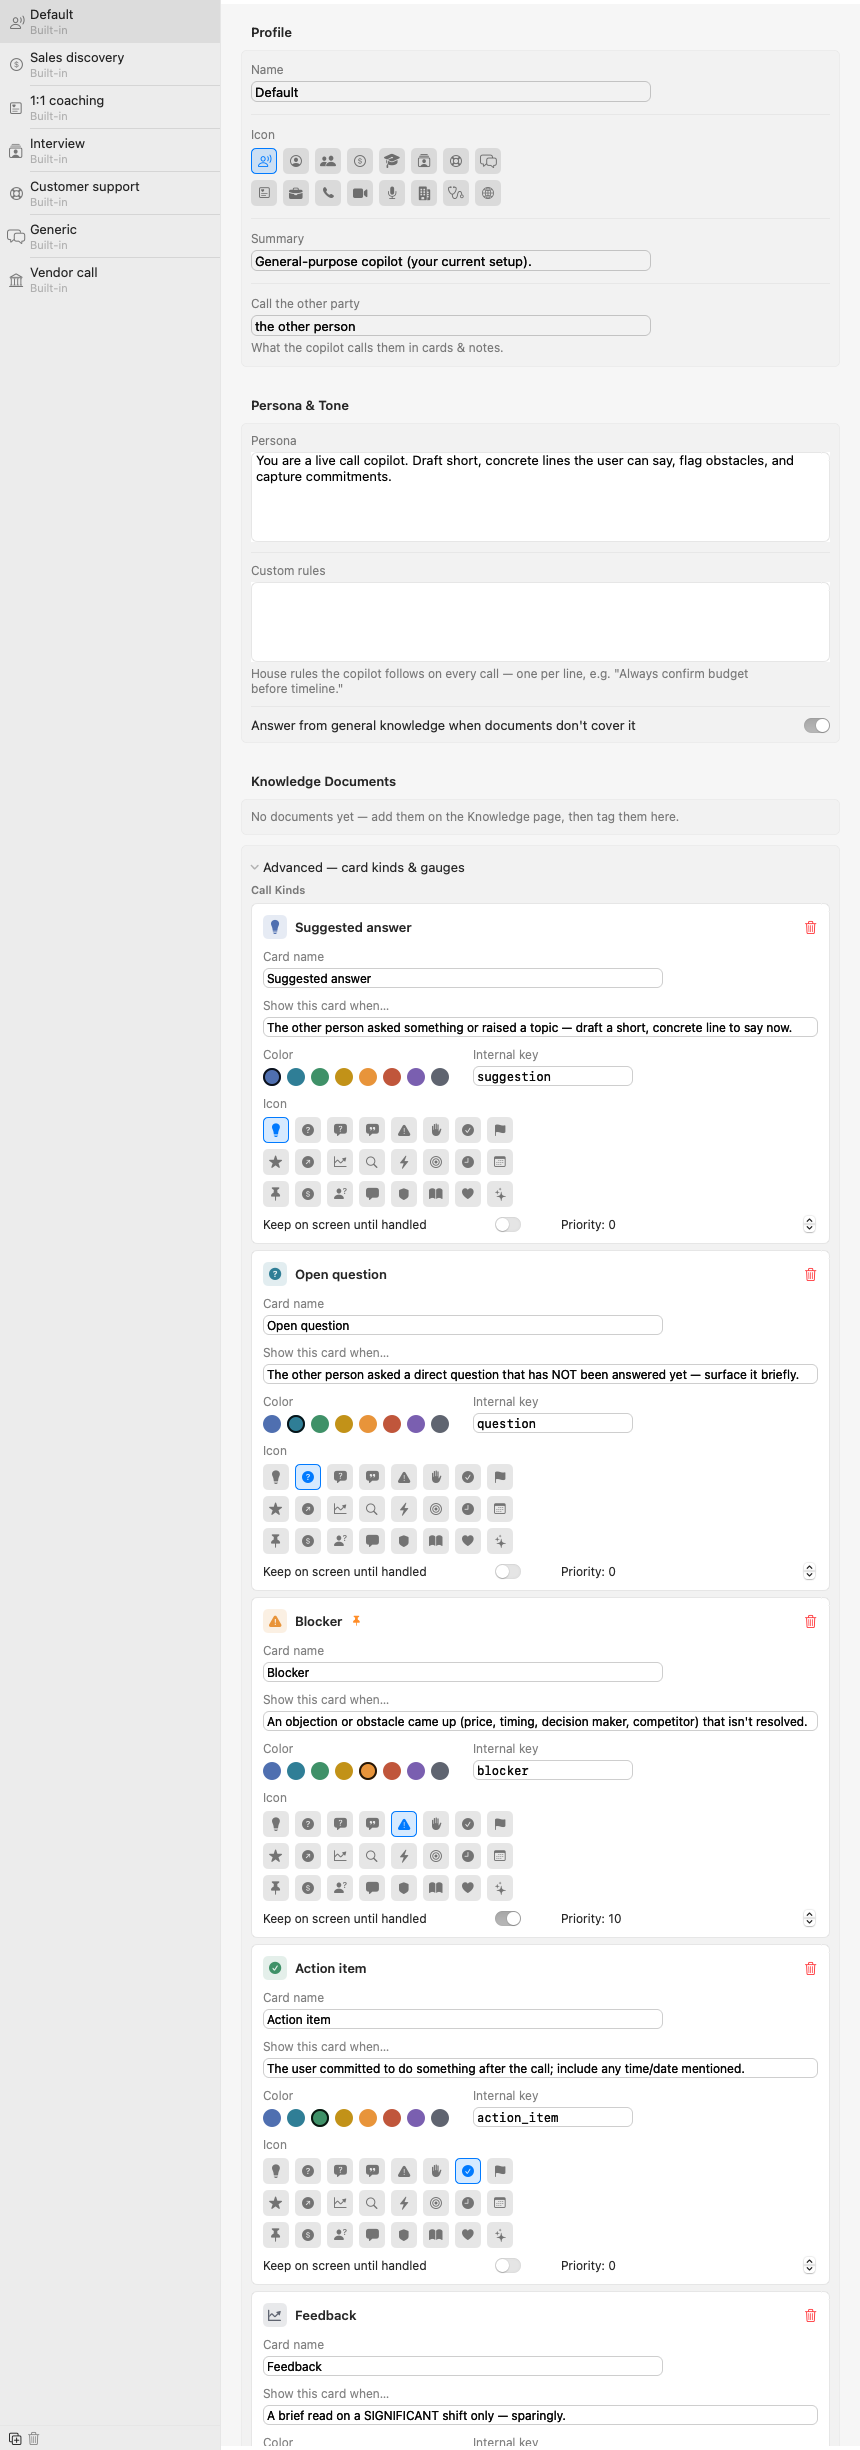
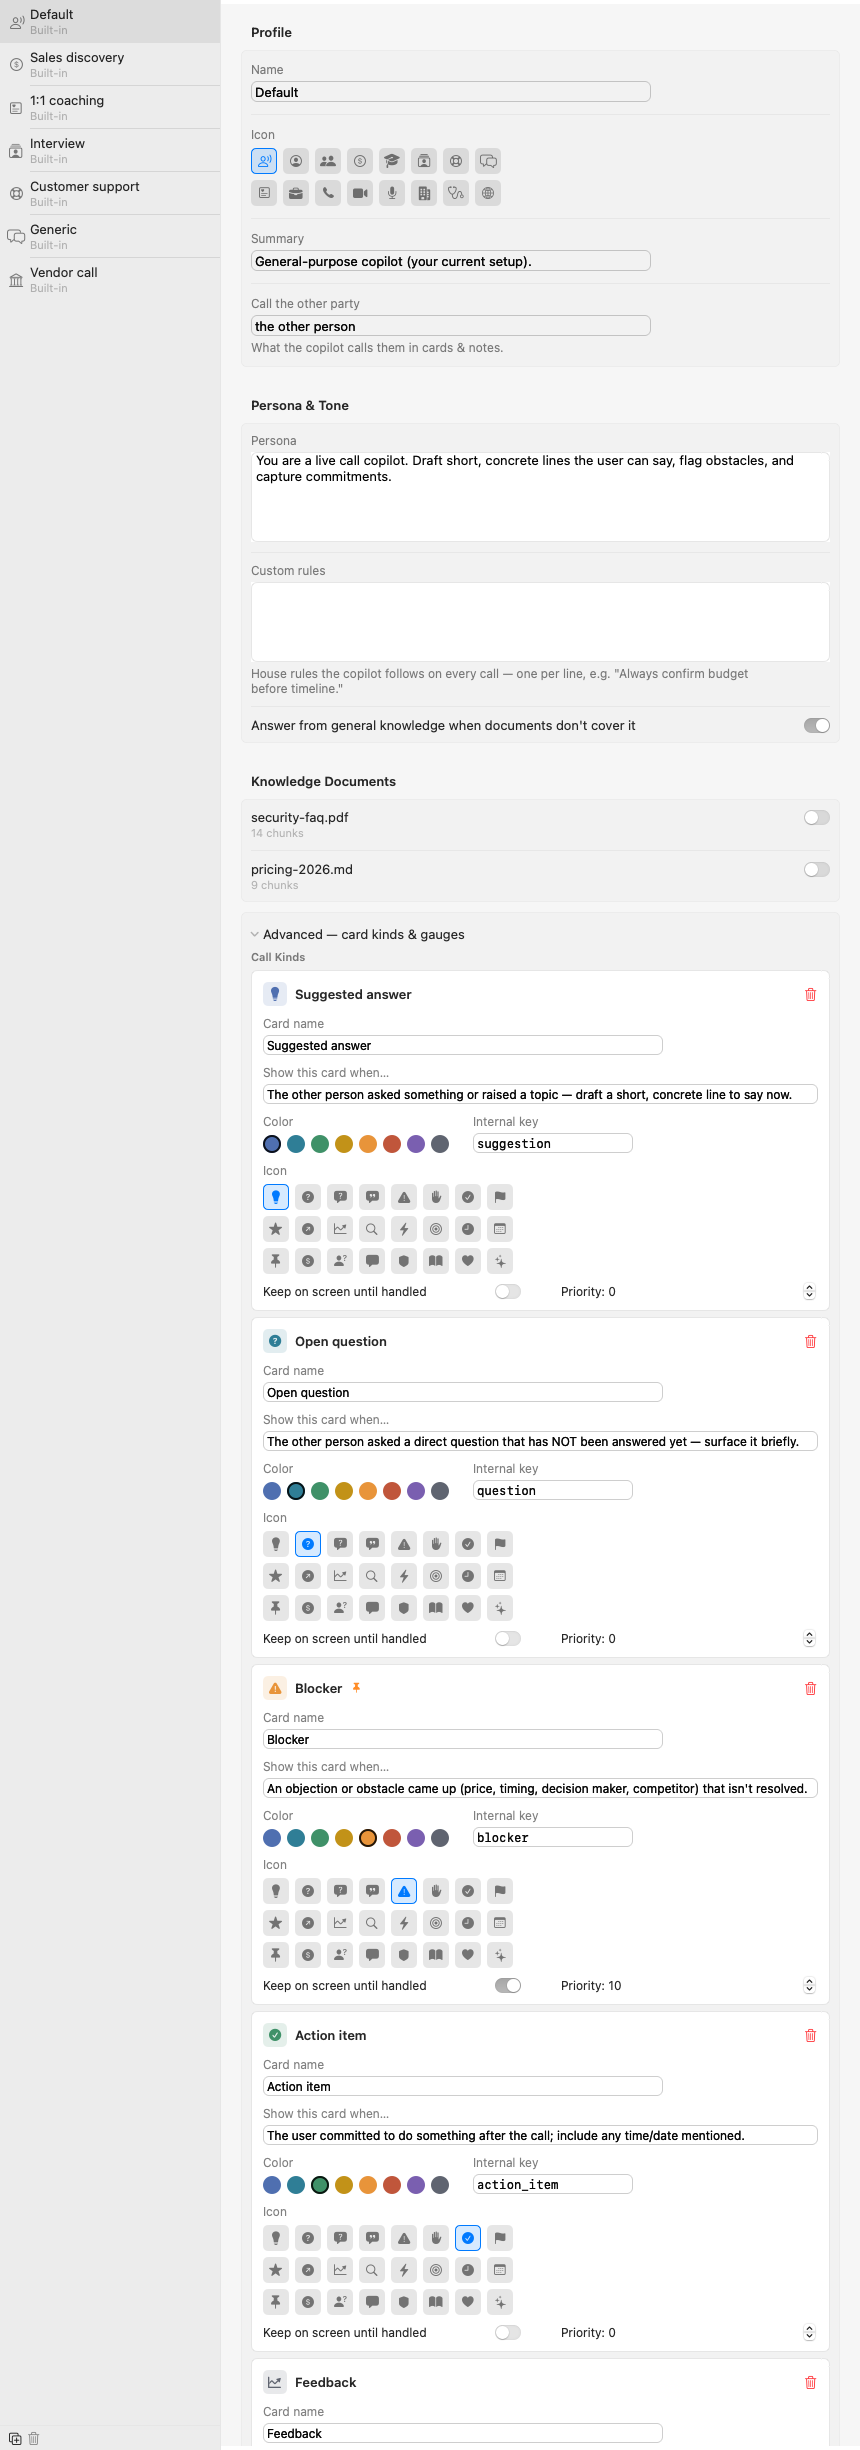
Settings: Knowledge page on white cards, with profile tags on each document
New SettingsCards.swift (page, titled card, row, tag chip, FlowLayout) gives
settings the same clean card look the landing page's rebuilt windows use.
The Knowledge page is the first to move: document rows show the note inline,
the chunk count as on-device, and a wrapping Use-for row of profile tags
you can toggle right there. The help-shots harness seeds two documents so
the screenshot shows the real thing.

diff --git a/Parrot/Views/SettingsView.swift b/Parrot/Views/SettingsView.swift
@@ -72,6 +72,7 @@ struct SettingsView: View {
     @AppStorage("rememberVoices") private var rememberVoices = false
     @Environment(\.modelContext) private var modelContext
     @Query(sort: \SpeakerProfile.name) private var voiceProfiles: [SpeakerProfile]
+    @Query(sort: \CallProfile.sortOrder) private var allProfiles: [CallProfile]
     @State private var showFileImporter = false
     /// There's no Save button — @AppStorage persists on every change. This
     /// drives a small transient "Saved" chip so that's visible, debounced so
@@ -623,38 +624,42 @@ struct SettingsView: View {
     // MARK: - Knowledge
 
     private var knowledgePage: some View {
-        Form {
-            Section("Documents") {
-                Hint("The copilot grounds its answers in these and cites the source. Indexed on this Mac, never uploaded.")
-
-                if recordingManager.knowledgeBase.documents.isEmpty {
-                    Text("No documents yet")
-                        .font(Theme.Typography.secondary)
-                        .foregroundStyle(Theme.Colors.ink3)
-                } else {
-                    ForEach(recordingManager.knowledgeBase.documents) { document in
-                        KBDocumentRow(document: document, knowledgeBase: recordingManager.knowledgeBase)
-                    }
-                }
-
-                HStack {
-                    Button("Add Documents…") {
-                        showFileImporter = true
-                    }
-
-                    if recordingManager.knowledgeBase.isIndexing {
-                        ProgressView()
-                            .controlSize(.small)
-                        Text("Indexing…")
+        let kb = recordingManager.knowledgeBase
+        return SettingsPage {
+            SettingsCard(
+                title: "Documents",
+                blurb: "The copilot grounds its answers in these and cites the source. Indexed on this Mac, never uploaded."
+            ) {
+                if kb.documents.isEmpty {
+                    SettingsRow(first: true) {
+                        Text("No documents yet. Add a pricing sheet or an FAQ and the copilot can quote it.")
                             .font(Theme.Typography.secondary)
-                            .foregroundStyle(Theme.Colors.ink2)
+                            .foregroundStyle(Theme.Colors.ink3)
                     }
                 }
-
-                if let error = recordingManager.knowledgeBase.lastError {
-                    Label(error, systemImage: "exclamationmark.triangle")
-                        .font(Theme.Typography.secondary)
-                        .foregroundStyle(Theme.Colors.warn)
+                ForEach(Array(kb.documents.enumerated()), id: \.element.id) { index, document in
+                    SettingsRow(first: index == 0) {
+                        KBDocumentRow(document: document, knowledgeBase: kb, profiles: allProfiles)
+                    }
+                }
+                SettingsRow {
+                    HStack(spacing: 10) {
+                        Button("Add Documents…") {
+                            showFileImporter = true
+                        }
+                        if kb.isIndexing {
+                            ProgressView()
+                                .controlSize(.small)
+                            Text("Embedding on this Mac…")
+                                .font(Theme.Typography.secondary)
+                                .foregroundStyle(Theme.Colors.ink2)
+                        }
+                        if let error = kb.lastError {
+                            Label(error, systemImage: "exclamationmark.triangle")
+                                .font(Theme.Typography.secondary)
+                                .foregroundStyle(Theme.Colors.warn)
+                        }
+                    }
                 }
             }
         }
@@ -753,39 +758,60 @@ struct Hint: View {
 struct KBDocumentRow: View {
     let document: KBDocument
     let knowledgeBase: KnowledgeBaseService
+    /// Every call profile, so the row can show and toggle which ones use this document.
+    let profiles: [CallProfile]
 
     @State private var note: String
     /// Removal asks first: a document is work the user prepared, and the
     /// trash icon sits next to a text field they click into all the time.
     @State private var confirmingRemove = false
 
-    init(document: KBDocument, knowledgeBase: KnowledgeBaseService) {
+    init(document: KBDocument, knowledgeBase: KnowledgeBaseService, profiles: [CallProfile]) {
         self.document = document
         self.knowledgeBase = knowledgeBase
+        self.profiles = profiles
         _note = State(initialValue: document.note)
     }
 
+    private var isPDF: Bool { document.name.lowercased().hasSuffix(".pdf") }
+
     var body: some View {
-        VStack(alignment: .leading, spacing: 4) {
-            HStack {
-                Image(systemName: document.name.lowercased().hasSuffix(".pdf") ? "doc.richtext" : "doc.text")
+        VStack(alignment: .leading, spacing: 8) {
+            HStack(alignment: .top, spacing: 8) {
+                Image(systemName: isPDF ? "doc.richtext" : "doc.text")
+                    .foregroundStyle(Theme.Colors.accent)
+                    .padding(.top, 1)
+
+                VStack(alignment: .leading, spacing: 2) {
+                    Text(document.name)
+                        .font(Theme.Typography.sans(13, .medium))
+                        .lineLimit(1)
+                    TextField(
+                        "When should the copilot use this? e.g. \"use for pricing questions\"",
+                        text: $note
+                    )
+                    .textFieldStyle(.plain)
+                    .font(Theme.Typography.secondary)
                     .foregroundStyle(Theme.Colors.ink2)
+                    .onSubmit {
+                        knowledgeBase.updateNote(note, for: document)
+                    }
+                }
 
-                Text(document.name)
-                    .font(Theme.Typography.sans(13, .medium))
-                    .lineLimit(1)
+                Spacer(minLength: 8)
 
-                Text("\(document.chunkCount) chunks")
+                Text("\(document.chunkCount) chunks · on-device")
                     .font(Theme.Typography.caption)
                     .foregroundStyle(Theme.Colors.ink3)
-
-                Spacer()
+                    .monospacedDigit()
+                    .lineLimit(1)
 
                 Button {
                     confirmingRemove = true
                 } label: {
                     Image(systemName: "trash")
                         .font(Theme.Typography.caption)
+                        .foregroundStyle(Theme.Colors.ink3)
                 }
                 .buttonStyle(.plain)
                 .help("Remove from knowledge base")
@@ -796,17 +822,29 @@ struct KBDocumentRow: View {
                 }
             }
 
-            TextField(
-                "When should the copilot use this? e.g. \"use for pricing questions\"",
-                text: $note
-            )
-            .textFieldStyle(.roundedBorder)
-            .font(Theme.Typography.secondary)
-            .onSubmit {
-                knowledgeBase.updateNote(note, for: document)
+            // Which profiles may quote it. Same data Profiles → documents edits.
+            FlowLayout(spacing: 6) {
+                Text("Use for")
+                    .font(Theme.Typography.caption)
+                    .foregroundStyle(Theme.Colors.ink3)
+                    .padding(.vertical, 4)
+                ForEach(profiles) { profile in
+                    Button {
+                        toggle(profile)
+                    } label: {
+                        TagChip(label: profile.name, on: document.profileIDs.contains(profile.id))
+                    }
+                    .buttonStyle(.plain)
+                }
             }
+            .padding(.leading, 24)
         }
-        .padding(.vertical, 2)
+    }
+
+    private func toggle(_ profile: CallProfile) {
+        var ids = document.profileIDs
+        if ids.contains(profile.id) { ids.remove(profile.id) } else { ids.insert(profile.id) }
+        knowledgeBase.setProfiles(ids, for: document)
     }
 }
 

diff --git a/Parrot/Views/SettingsCards.swift b/Parrot/Views/SettingsCards.swift
@@ -1,0 +1,117 @@
+import SwiftUI
+
+/// The settings pages' building blocks: a titled white card of rows on a plain
+/// canvas, the look the landing page's rebuilt windows use. Pages migrate to
+/// these from grouped Forms one by one.
+struct SettingsPage<Content: View>: View {
+    @ViewBuilder let content: Content
+
+    var body: some View {
+        ScrollView {
+            VStack(alignment: .leading, spacing: Theme.Metrics.sectionGap) { content }
+                .frame(maxWidth: 680, alignment: .leading)
+                .padding(Theme.Metrics.pad)
+        }
+        .frame(maxWidth: .infinity, maxHeight: .infinity, alignment: .topLeading)
+        .background(Theme.Colors.canvas)
+    }
+}
+
+/// A titled section: heading, optional blurb, then a bordered rounded card.
+struct SettingsCard<Content: View>: View {
+    let title: String
+    var blurb: String? = nil
+    @ViewBuilder let content: Content
+
+    var body: some View {
+        VStack(alignment: .leading, spacing: 6) {
+            Text(title)
+                .font(Theme.Typography.sans(13, .semibold))
+                .foregroundStyle(Theme.Colors.ink)
+            if let blurb {
+                Text(blurb)
+                    .font(Theme.Typography.secondary)
+                    .foregroundStyle(Theme.Colors.ink2)
+                    .fixedSize(horizontal: false, vertical: true)
+            }
+            VStack(alignment: .leading, spacing: 0) { content }
+                .frame(maxWidth: .infinity, alignment: .leading)
+                .background(Theme.Colors.canvas, in: RoundedRectangle(cornerRadius: Theme.Metrics.cardRadius))
+                .overlay(RoundedRectangle(cornerRadius: Theme.Metrics.cardRadius).strokeBorder(Theme.Colors.line))
+                .padding(.top, 4)
+        }
+    }
+}
+
+/// One row in a card. Every row but the first draws a hairline above itself.
+struct SettingsRow<Content: View>: View {
+    var first = false
+    @ViewBuilder let content: Content
+
+    var body: some View {
+        VStack(alignment: .leading, spacing: 0) {
+            if !first { Divider() }
+            content
+                .frame(maxWidth: .infinity, alignment: .leading)
+                .padding(.horizontal, 12)
+                .padding(.vertical, 10)
+        }
+    }
+}
+
+/// Lays children out left to right and wraps to new lines, like text.
+/// Chips and tags use it so a long list never squeezes its members.
+struct FlowLayout: Layout {
+    var spacing: CGFloat = 6
+
+    func sizeThatFits(proposal: ProposedViewSize, subviews: Subviews, cache: inout ()) -> CGSize {
+        let width = proposal.width ?? .infinity
+        var x: CGFloat = 0, y: CGFloat = 0, rowHeight: CGFloat = 0
+        for view in subviews {
+            let size = view.sizeThatFits(.unspecified)
+            if x > 0, x + size.width > width {
+                x = 0; y += rowHeight + spacing; rowHeight = 0
+            }
+            x += size.width + spacing
+            rowHeight = max(rowHeight, size.height)
+        }
+        return CGSize(width: width == .infinity ? x : width, height: y + rowHeight)
+    }
+
+    func placeSubviews(in bounds: CGRect, proposal: ProposedViewSize, subviews: Subviews, cache: inout ()) {
+        var x = bounds.minX, y = bounds.minY, rowHeight: CGFloat = 0
+        for view in subviews {
+            let size = view.sizeThatFits(.unspecified)
+            if x > bounds.minX, x + size.width > bounds.maxX {
+                x = bounds.minX; y += rowHeight + spacing; rowHeight = 0
+            }
+            view.place(at: CGPoint(x: x, y: y), proposal: ProposedViewSize(size))
+            x += size.width + spacing
+            rowHeight = max(rowHeight, size.height)
+        }
+    }
+}
+
+/// A small tag. `on` uses the accent tint, like the app's selected chips.
+struct TagChip: View {
+    let label: String
+    let on: Bool
+
+    var body: some View {
+        HStack(spacing: 4) {
+            if on {
+                Image(systemName: "checkmark")
+                    .font(.system(size: 9, weight: .semibold))
+            }
+            Text(label)
+        }
+        .font(Theme.Typography.caption)
+        .lineLimit(1)
+        .fixedSize()
+        .padding(.horizontal, 8)
+        .padding(.vertical, 4)
+        .background(on ? Theme.Colors.selection : Theme.Colors.chip,
+                    in: RoundedRectangle(cornerRadius: Theme.Metrics.chipRadius))
+        .foregroundStyle(on ? Theme.Colors.accent : Theme.Colors.ink)
+    }
+}

diff --git a/Parrot/SnapshotTool.swift b/Parrot/SnapshotTool.swift
@@ -260,6 +260,14 @@ enum HelpShots {
             meCharacters: 620, themCharacters: 780,
             brief: "Renewal call with Acme. Legal wants to know where the data is stored.")
 
+        // Two documents so the Knowledge page shows rows, notes, and profile tags.
+        rm.knowledgeBase.seedForSnapshot(documents: [
+            KBDocument(name: "security-faq.pdf", note: "Use for security and data questions",
+                       chunkCount: 14, addedAt: .now, profileIDs: Set([salesProfile?.id].compactMap { $0 })),
+            KBDocument(name: "pricing-2026.md", note: "Use for pricing questions",
+                       chunkCount: 9, addedAt: .now, profileIDs: Set([salesProfile?.id].compactMap { $0 })),
+        ])
+
         func settings(_ section: SettingsSection) -> some View {
             SettingsView(isEmbedded: false, initialSection: section)
                 .environment(rm)

diff --git a/Parrot/Views/Theme.swift b/Parrot/Views/Theme.swift
@@ -105,6 +105,9 @@ enum Theme {
         /// The one corner radius. Capsule is allowed only for true pills.
         static let radius: CGFloat = 6
         static let chipRadius: CGFloat = 6
+        /// Settings cards (SettingsCards.swift): the white rounded boxes the
+        /// landing page's rebuilt windows use. Rows inside keep `radius`.
+        static let cardRadius: CGFloat = 10
         /// Report/insights column cap — wide enough to use the screen while
         /// keeping prose lines readable.
         static let contentMaxWidth: CGFloat = 1100

diff --git a/Parrot/Services/KnowledgeBaseService.swift b/Parrot/Services/KnowledgeBaseService.swift
@@ -89,6 +89,13 @@ final class KnowledgeBaseService {
         save()
     }
 
+    // MARK: - Snapshot Harness Support
+
+    /// Fake documents for the offscreen renders. Never persisted.
+    func seedForSnapshot(documents docs: [KBDocument]) {
+        documents = docs
+    }
+
     // MARK: - Profile Scoping
 
     /// Tags every document in the KB into the given profile ID.

diff --git a/FILEMAP.md b/FILEMAP.md
@@ -9,7 +9,7 @@ tree. Line counts are rough — they flag which files are worth reading whole.
 |---|---|---|
 | `Parrot/ParrotApp.swift` | 178 | `@main`; parses CLI harness flags before the SwiftUI `App` starts |
 | `Parrot/ProfileTest.swift` | 1154 | `--profile-test`: headless logic harness, ~290 checks |
-| `Parrot/SnapshotTool.swift` | 933 | Offscreen PNG renderers + transcribe/analyze/capture harnesses |
+| `Parrot/SnapshotTool.swift` | 941 | Offscreen PNG renderers + transcribe/analyze/capture harnesses |
 | `Parrot/CopilotHarness.swift` | 326 | `--kb-add`, `--doc-answer-eval` (Jev precision/recall), `--copilot-replay` (question-to-card latency) |
 
 ## Models (SwiftData `@Model` + Codable values)
@@ -40,7 +40,7 @@ tree. Line counts are rough — they flag which files are worth reading whole.
 | `Services/OpenAICompatibleProvider.swift` | 528 | OpenAI-shaped LLM client (incl. Ollama); provider switching |
 | `Services/CallAnalysisEngine.swift` | 815 | Drives live Copilot passes; per-pace question floor; Jev fast path ("From your docs" excerpt) |
 | `Services/JevDocMatcher.swift` | 175 | TypeSafe "Jev" client: one probability per KB chunk that it answers the question; same-issue verdicts for card dedup |
-| `Services/KnowledgeBaseService.swift` | 396 | Ingests/chunks KB docs (heading-aware), hybrid BM25 + embedding retrieval |
+| `Services/KnowledgeBaseService.swift` | 403 | Ingests/chunks KB docs (heading-aware), hybrid BM25 + embedding retrieval |
 | `Services/ProfileStore.swift` | 111 | Persists and mutates `CallProfile`s |
 | `Services/ProfilePresets.swift` | 170 | Built-in starter profiles (seven, incl. the buyer-side "Vendor call") |
 | `Services/ExportService.swift` | 127 | Transcript/report export (Markdown, text) |
@@ -58,19 +58,19 @@ tree. Line counts are rough — they flag which files are worth reading whole.
 | `Views/DashboardView.swift` | 350 | Landing stats + recent meetings |
 | `Views/LiveRecordingView.swift` | 549 | In-call screen: chat bubbles, mic level, side tabs |
 | `Views/CopilotPanelView.swift` | 770 | Live insight cards, pinned blockers, suggested replies |
-| `Views/BriefViews.swift` | 147 | Brief summary line, documents-in-play row, live "Briefed" card (dashboard + copilot panel) |
+| `Views/BriefViews.swift` | 147 | Brief summary line, documents-in-play row, live "Briefed" card (dashboard + copilot panel) |\n| `Views/SettingsCards.swift` | 117 | Settings building blocks: page, titled card, row, tag chip (the landing-page window look) |
 | `Views/MeetingDetailView.swift` | 900 | Post-call tabs: transcript, insights, report; speaker naming popover + confirm card |
 | `Views/BugReportSheet.swift` | 150 | Bug/idea report form + the corner ladybug button |
 | `Views/ReportContentView.swift` | 267 | Report section cards, talk-ratio bar, prose blocks |
 | `Views/SentimentStripView.swift` | 60 | Sentiment gauge strip |
-| `Views/SettingsView.swift` | 869 | All settings sections, provider keys, KB docs |
+| `Views/SettingsView.swift` | 907 | All settings sections, provider keys, KB docs |
 | `Views/ProfilesSettingsView.swift` | 689 | Call-profile editor: kinds, gauges, icon picker |
 | `Views/OnboardingView.swift` | 340 | Permission walkthrough + model choice |
 | `Views/OllamaModelStatusView.swift` | 136 | Local model presence/pull status |
 | `Views/AudioImport.swift` | 108 | Drag-drop / file import of existing audio |
 | `Views/AppCommands.swift` | 253 | `AppSession`, menu commands, context menus, notifications |
 | `Views/MenuBarView.swift` | 59 | Menu bar extra |
-| `Views/Theme.swift` | 151 | Single source of colors, fonts, metrics |
+| `Views/Theme.swift` | 158 | Single source of colors, fonts, metrics |
 
 ## Build & non-source
 
